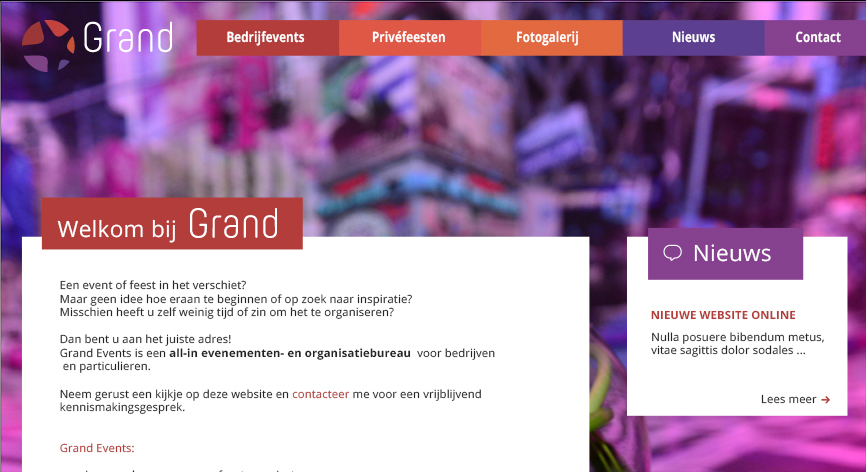
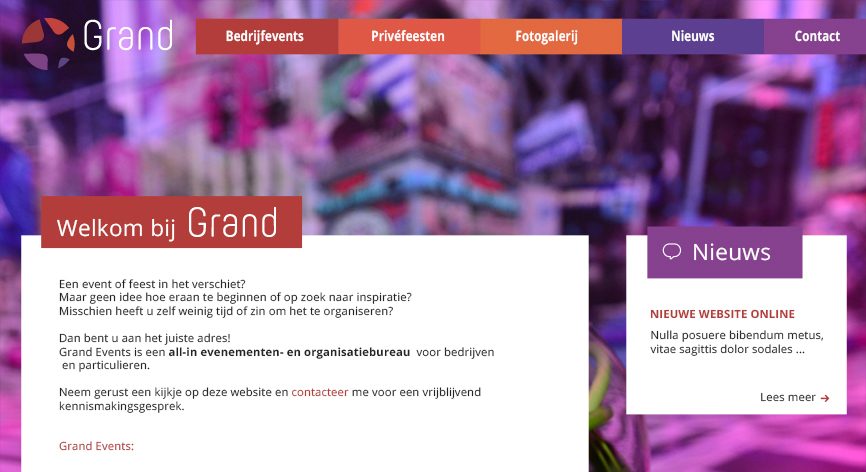
Optimized all images

diff --git a/src/data/projects/portfolio-website.md b/src/data/projects/portfolio-website.md
@@ -3,5 +3,5 @@ title: "Portfolio"
 tech: "gatsby bulma design react"
 type: "#website"
 url: "https://github.com/chiched/portfolio"
-image: "portfolio-website1.png"
+image: "portfolio-website.png"
 ---

diff --git a/src/data/projects/femasol-website.md b/src/data/projects/femasol-website.md
@@ -2,7 +2,7 @@
 title: "Femasol"
 tech: "design drupal html css js"
 type: "#website"
-url: ""
+url: "/femasol-website-full.jpg"
 image: "femasol-website.png"
 ---
 
